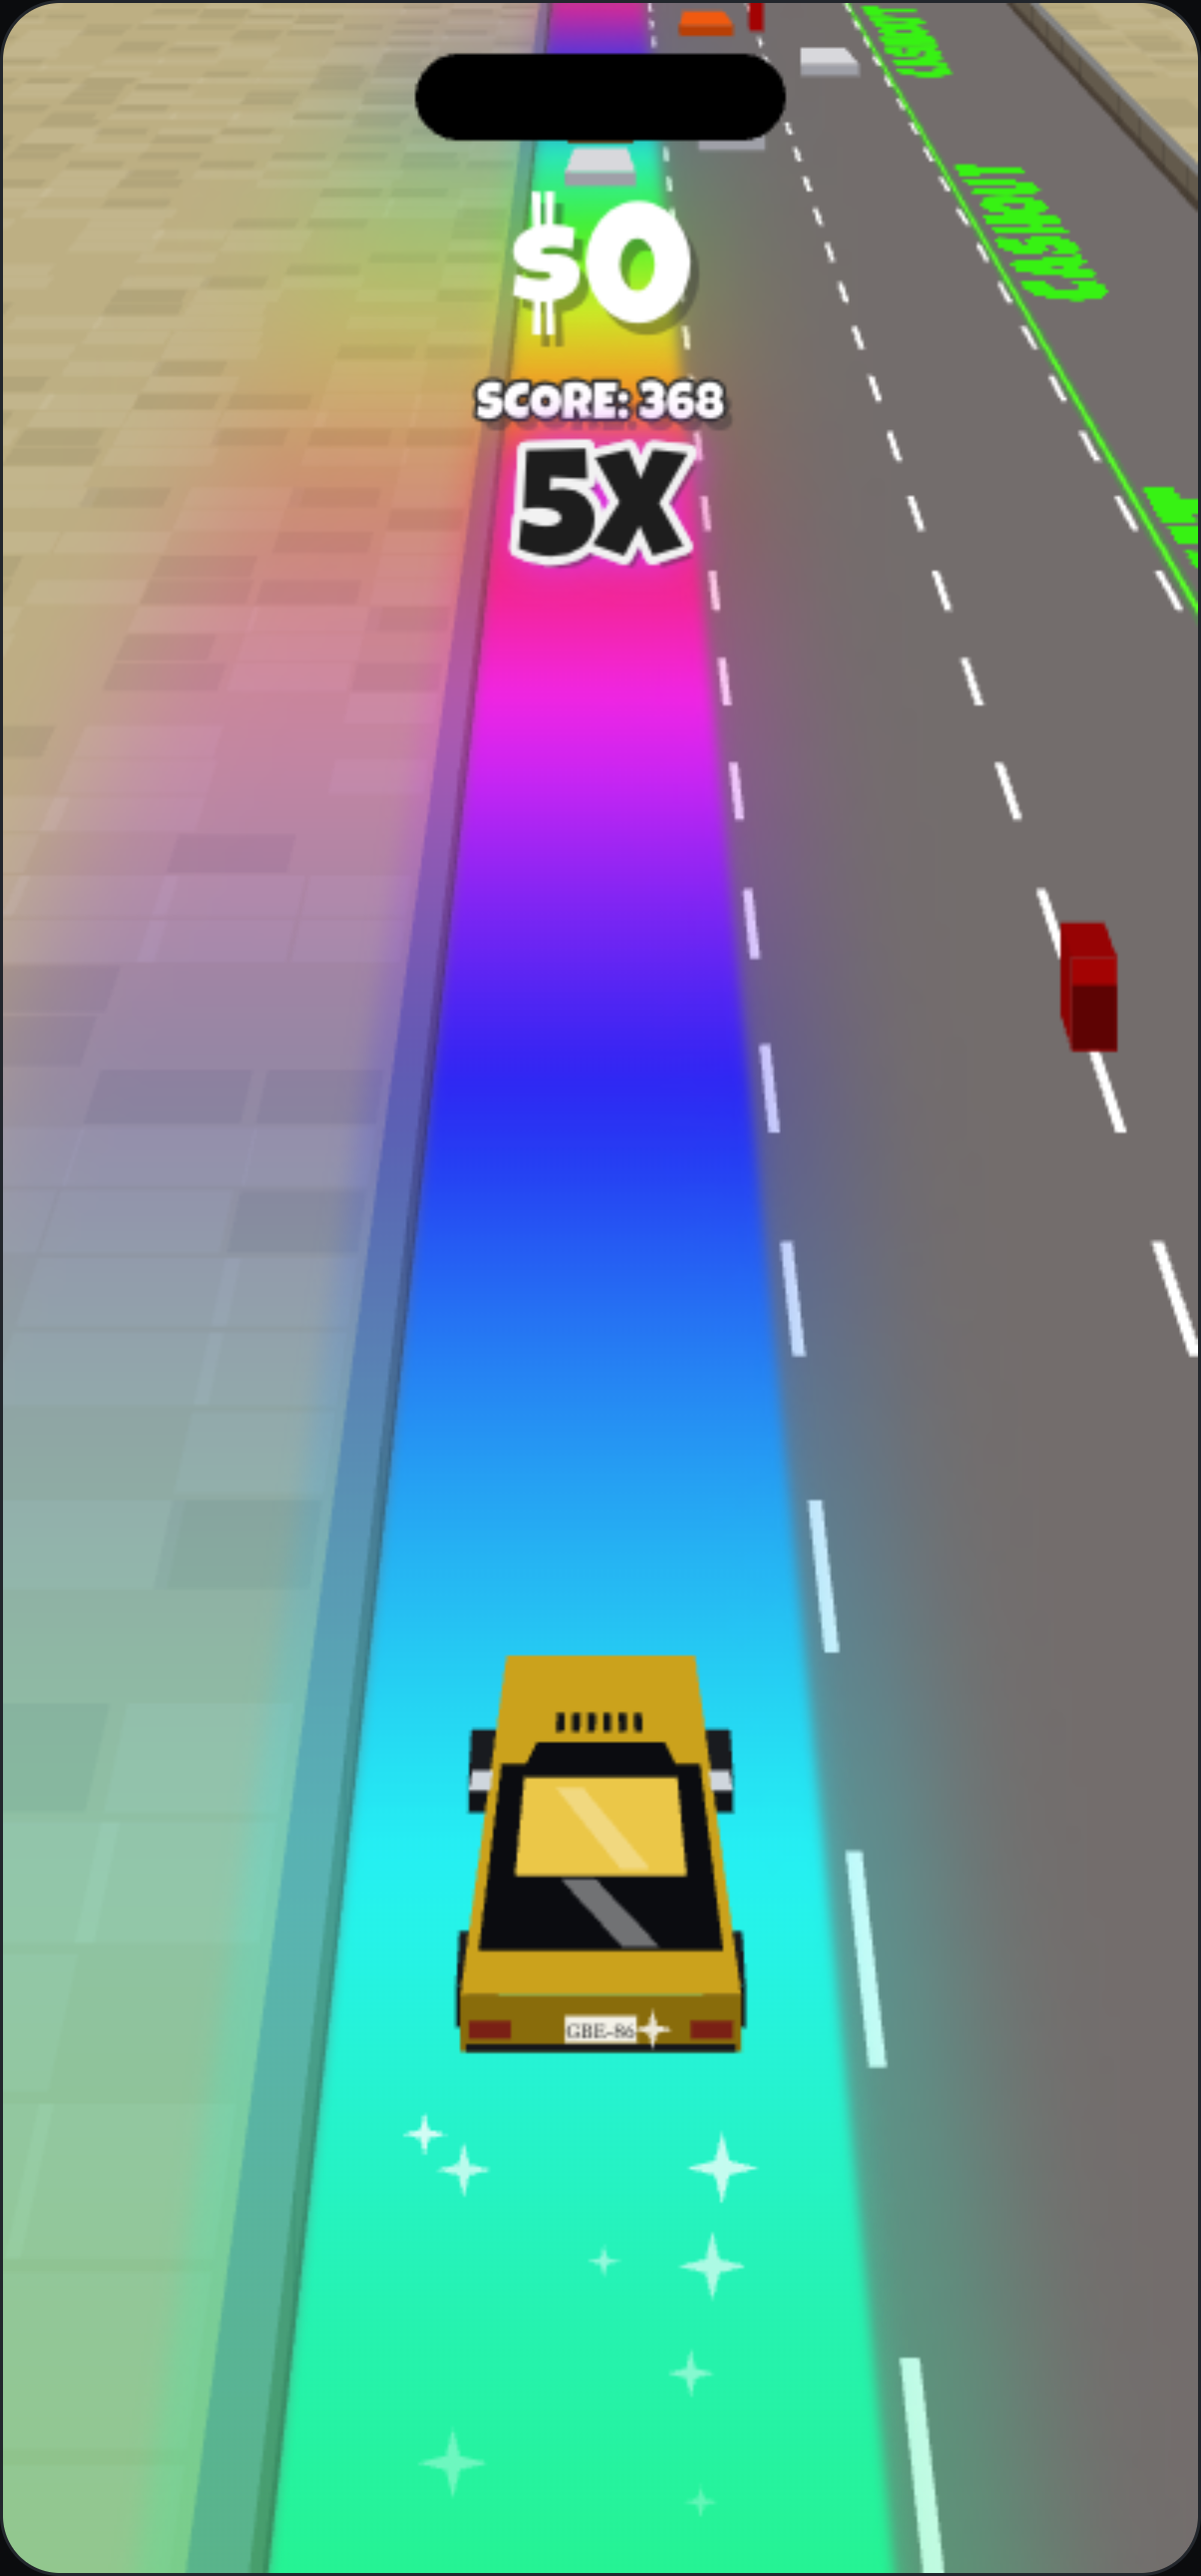
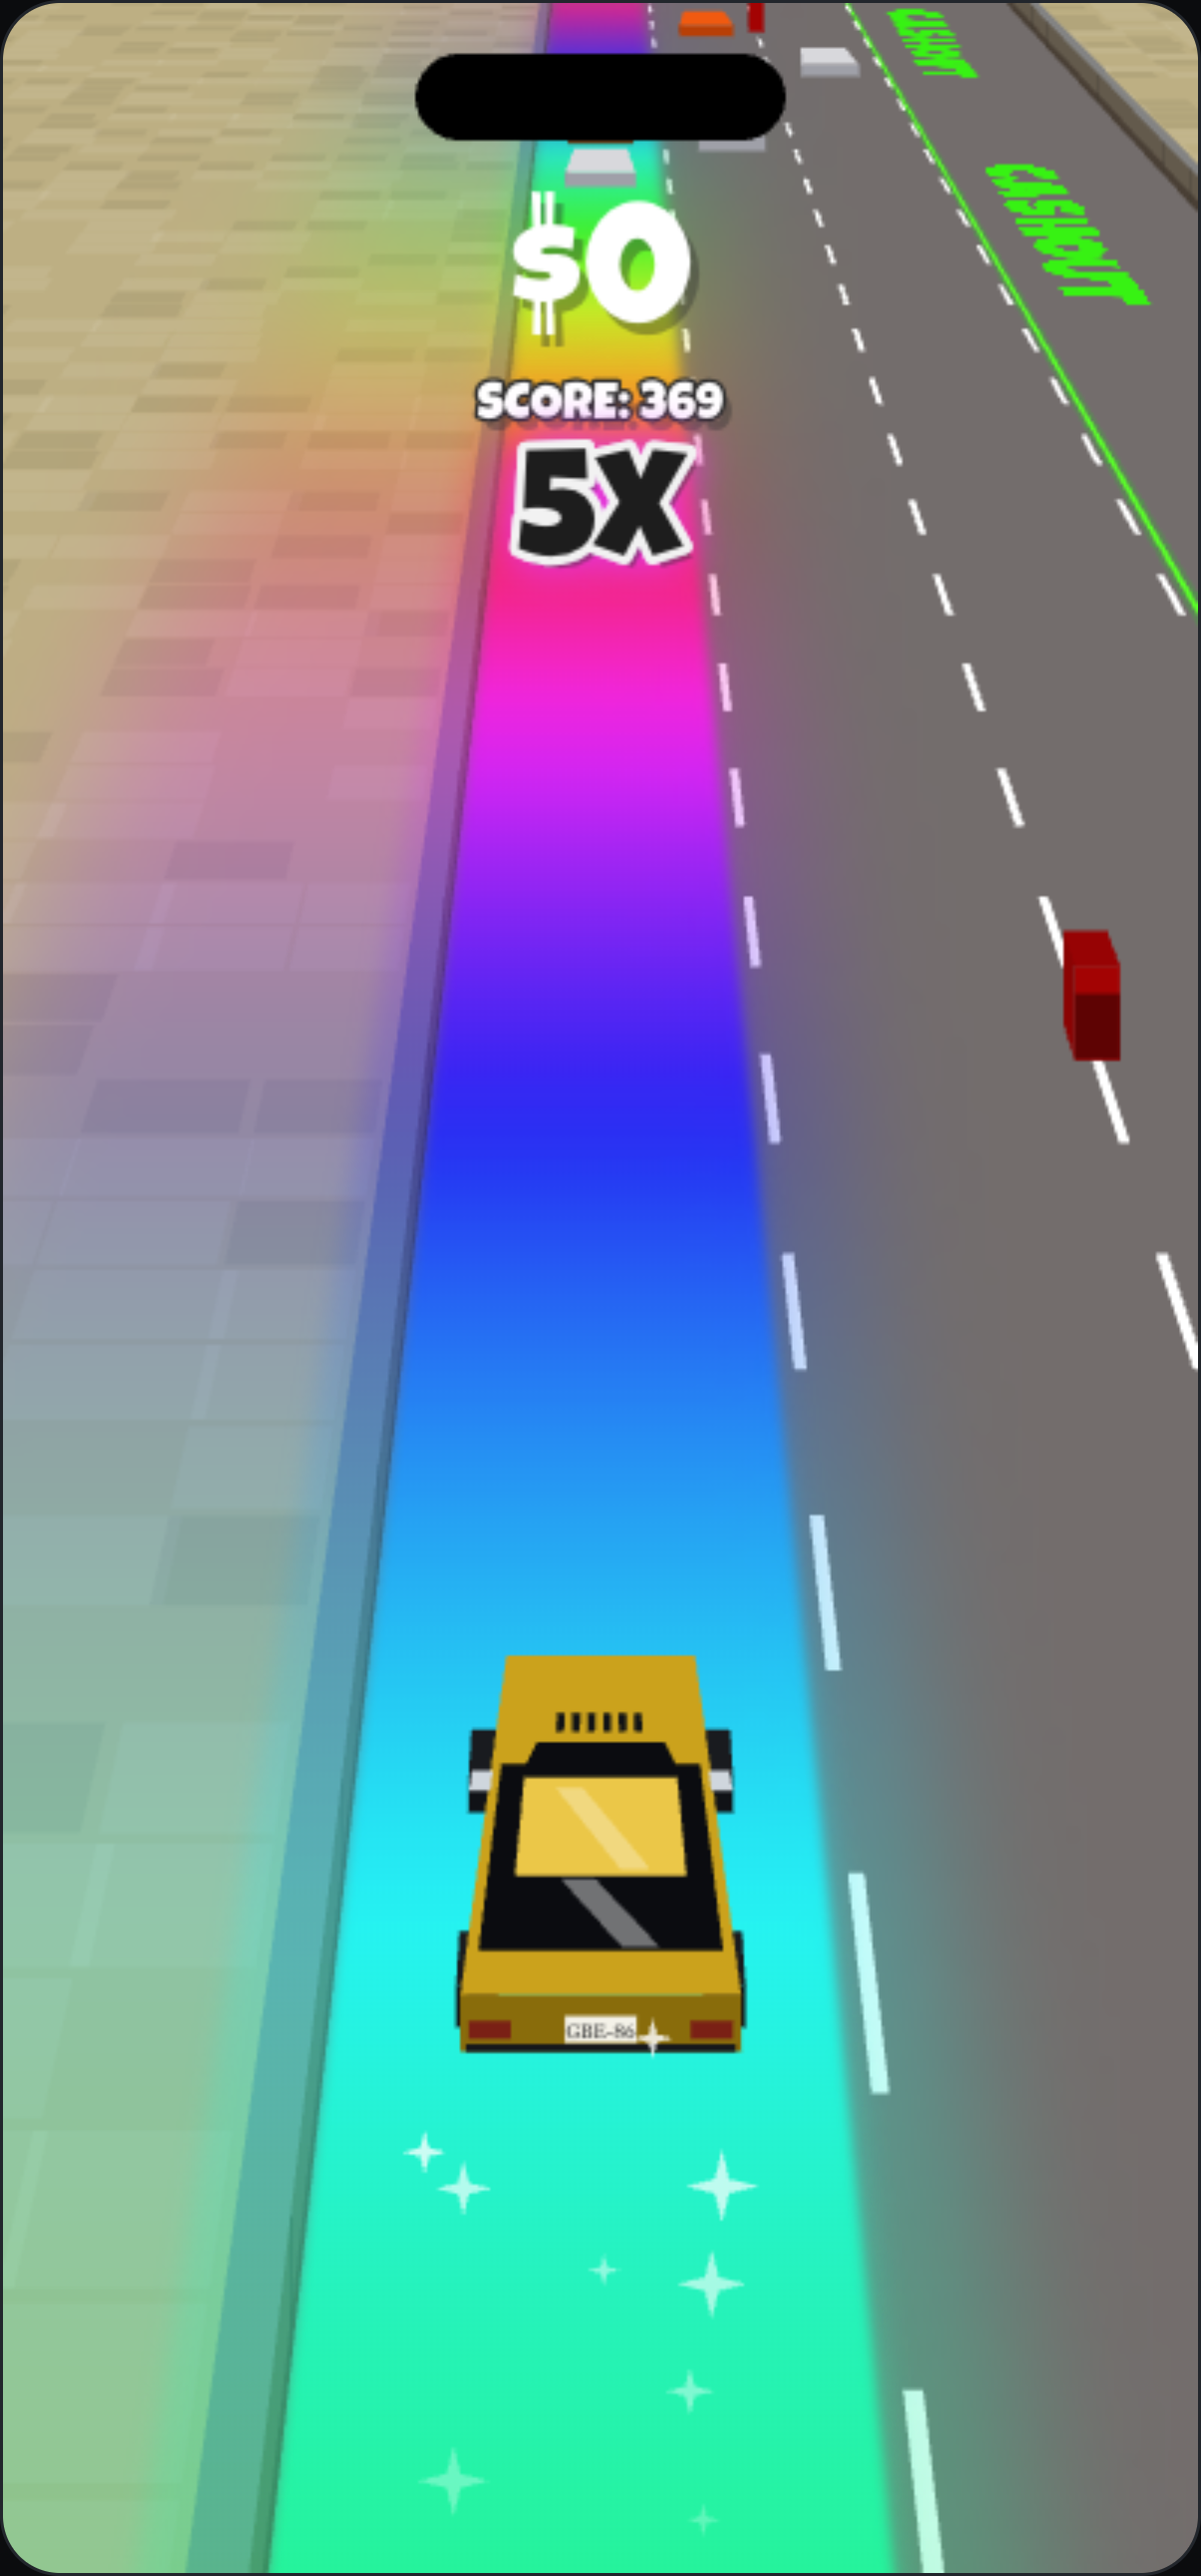
flip the CASHOUT glyphs to read from the car's side of the road

diff --git a/app/writeup/page.tsx b/app/writeup/page.tsx
@@ -176,6 +176,9 @@ export default function Writeup() {
         * median over the nine seeds that reached BOT at all, not over all twelve. The evasive bot
         touches SUSPECT and BOT on nine of twelve seeds; reading the final verdict alone
         understates the detector. The stealth bot never touches SUSPECT or BOT on any seed.
+        The replay row runs against the synthesized corpus, capped at 8 distinct traces, which
+        keeps replay similarity saturated; replaying a large corpus of real recorded swipes
+        starves that signal and is not measured here.
       </P>
       <P>
         The evasive generative bot defeats every swipe-level motor-forensics signal by modeling human

diff --git a/lib/core/config.ts b/lib/core/config.ts
@@ -620,7 +620,7 @@ export const PRESETS: Preset[] = [
     id: "replay-farm",
     label: "Replay farm",
     description:
-      "Replays a corpus of recorded human traces, perturbed per use, delivered through simulated hardware injection the way a phone-farm rig would.",
+      "Replays a small trace corpus, perturbed per use, delivered through simulated hardware injection the way a phone-farm rig would. Synthesized traces by default; switch to your own recorded swipes with mirror.useRecorded.",
     logLine:
       "PRESET: replay farm — provenance is blind; replay similarity has to carry the verdict",
     config: { mode: "mirror", hwInject: true },

diff --git a/lib/attack/bot.ts b/lib/attack/bot.ts
@@ -2,7 +2,7 @@
  * Attacker models, all driven through the same input pipeline the human uses;
  * the detector never sees which one is running.
  *   perfect    — instant reaction, machine-clean synthetic swipes
- *   mirror     — perturbed replay of a small recorded-trace corpus
+ *   mirror     — perturbed replay of a trace corpus (synthesized unless useRecorded)
  *   generative — a fresh human-shaped trace per swipe, iid or organic noise,
  *                plus the stealth kit: ex-Gaussian RTs gated to threat onset,
  *                real contested-space risks, fake aborts. See REPORT.md §3.

diff --git a/lib/ui/renderer.ts b/lib/ui/renderer.ts
@@ -472,9 +472,9 @@ export class Renderer {
       const zc = (i + 0.5) * C.slot;
       t.save();
       t.translate(C.texW / 2, ((wordLen - zc) / wordLen) * C.texH);
-      // tops toward the road, like the reference paint
-      t.rotate(-Math.PI / 2);
-      t.fillText(C.word[i], 0, 0);
+      // readable from the car's side of the road
+      t.rotate(Math.PI / 2);
+      t.fillText(C.word[C.word.length - 1 - i], 0, 0);
       t.restore();
     }
     this.cashTex = cv;

diff --git a/README.md b/README.md
@@ -94,9 +94,15 @@ matters.
 | attacker | verdict at 180 s | ever SUSPECT | ever BOT | how it's caught (or not) |
 |---|---|---|---|---|
 | naive scripted | **BOT 100%** | 0/12 | **12/12** | kinematics (jitter ≈ 0) + event provenance, in seconds |
-| replay farm (injected) | **BOT 100%** | 0/12 | **12/12** | replay similarity: repeats in shape *and* timing |
+| replay farm (injected) | **BOT 100%** | 0/12 | **12/12** | replay similarity: repeats in shape *and* timing (see the corpus-size caveat below) |
 | evasive generative | BOT 50% | 9/12 | **9/12** | organic noise beats motor forensics; the impossible-RT artifact lands in about a minute |
 | **stealth camouflage** | HUMAN 12/12 | 0/12 | **0/12** | **never touches SUSPECT or BOT** |
+
+**Corpus-size caveat on the replay row.** That result is measured against the
+synthesized corpus, which `buildCorpus` caps at 8 distinct traces; replay
+similarity stays saturated across that whole range. Replaying a *large* corpus
+of real recorded swipes (`mirror.useRecorded`) starves the same signal and is
+not measured here.
 
 The stealth bot uses organic motor noise (pink 1/f + tremor + drift), ex-Gaussian
 reaction times gated to threat onset, deliberate imperfect play (it enters
@@ -168,5 +174,7 @@ swipe corpus. To calibrate: serve `recorder/index.html` over your LAN, record
 swipes on phone + desktop, drop the JSON in `corpus/` (gitignored — it's
 biometric-adjacent), and run `pnpm calibrate`. That computes a per-signal ROC/AUC
 against each attacker class and picks thresholds at FPR ≤ 0.1%. Until then the UI
-shows the uncalibrated-prior state and says so. **No corpus has been recorded
-yet** — this is the one open item.
+shows the uncalibrated-prior state and says so. **No calibration corpus has been
+recorded yet.** That is the one open item. Swipes recorded in the bench's phone
+panel are a separate in-browser store that feeds the replay-farm attacker; they
+are not calibration data and never touch `corpus/`.

diff --git a/REPORT.md b/REPORT.md
@@ -110,8 +110,10 @@ sub-100 ms "reactions" in dense traffic.
 
 The naive bot is caught in seconds by kinematics (machine-clean swipes, jitter
 ≈ 0) and event provenance. The replay farm survives provenance blinding (its
-injected events arrive `isTrusted`) but is caught by replay similarity — its
-swipes repeat in shape *and* timing. The evasive generative bot defeats every
+injected events arrive `isTrusted`) but is caught by replay similarity: its
+swipes repeat in shape *and* timing. That holds against the synthesized corpus,
+capped at 8 distinct traces; replaying a large corpus of real recorded swipes
+starves the signal and is not measured here. The evasive generative bot defeats every
 swipe-level motor-forensics signal by modeling human motor noise correctly:
 
 | noise model | Δ⁴/Δ² whiteness | caught by motor forensics? |
